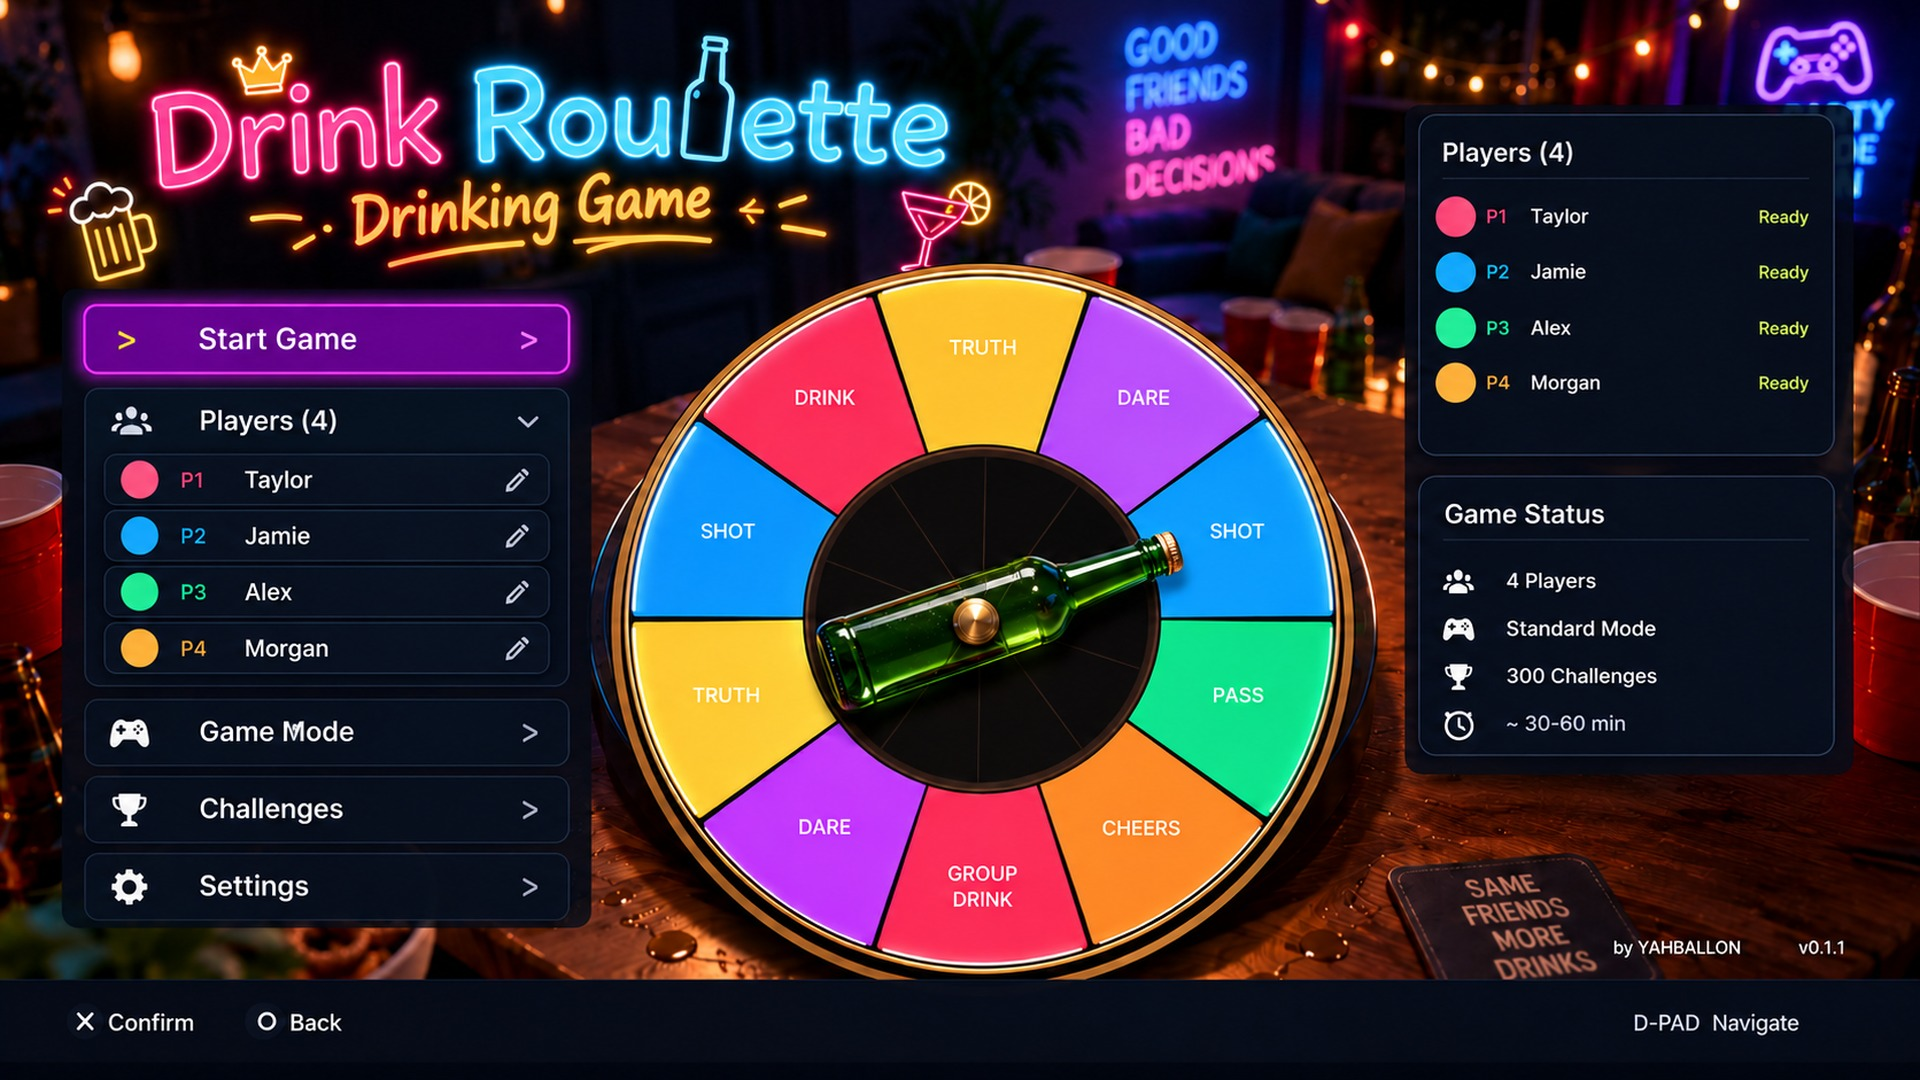
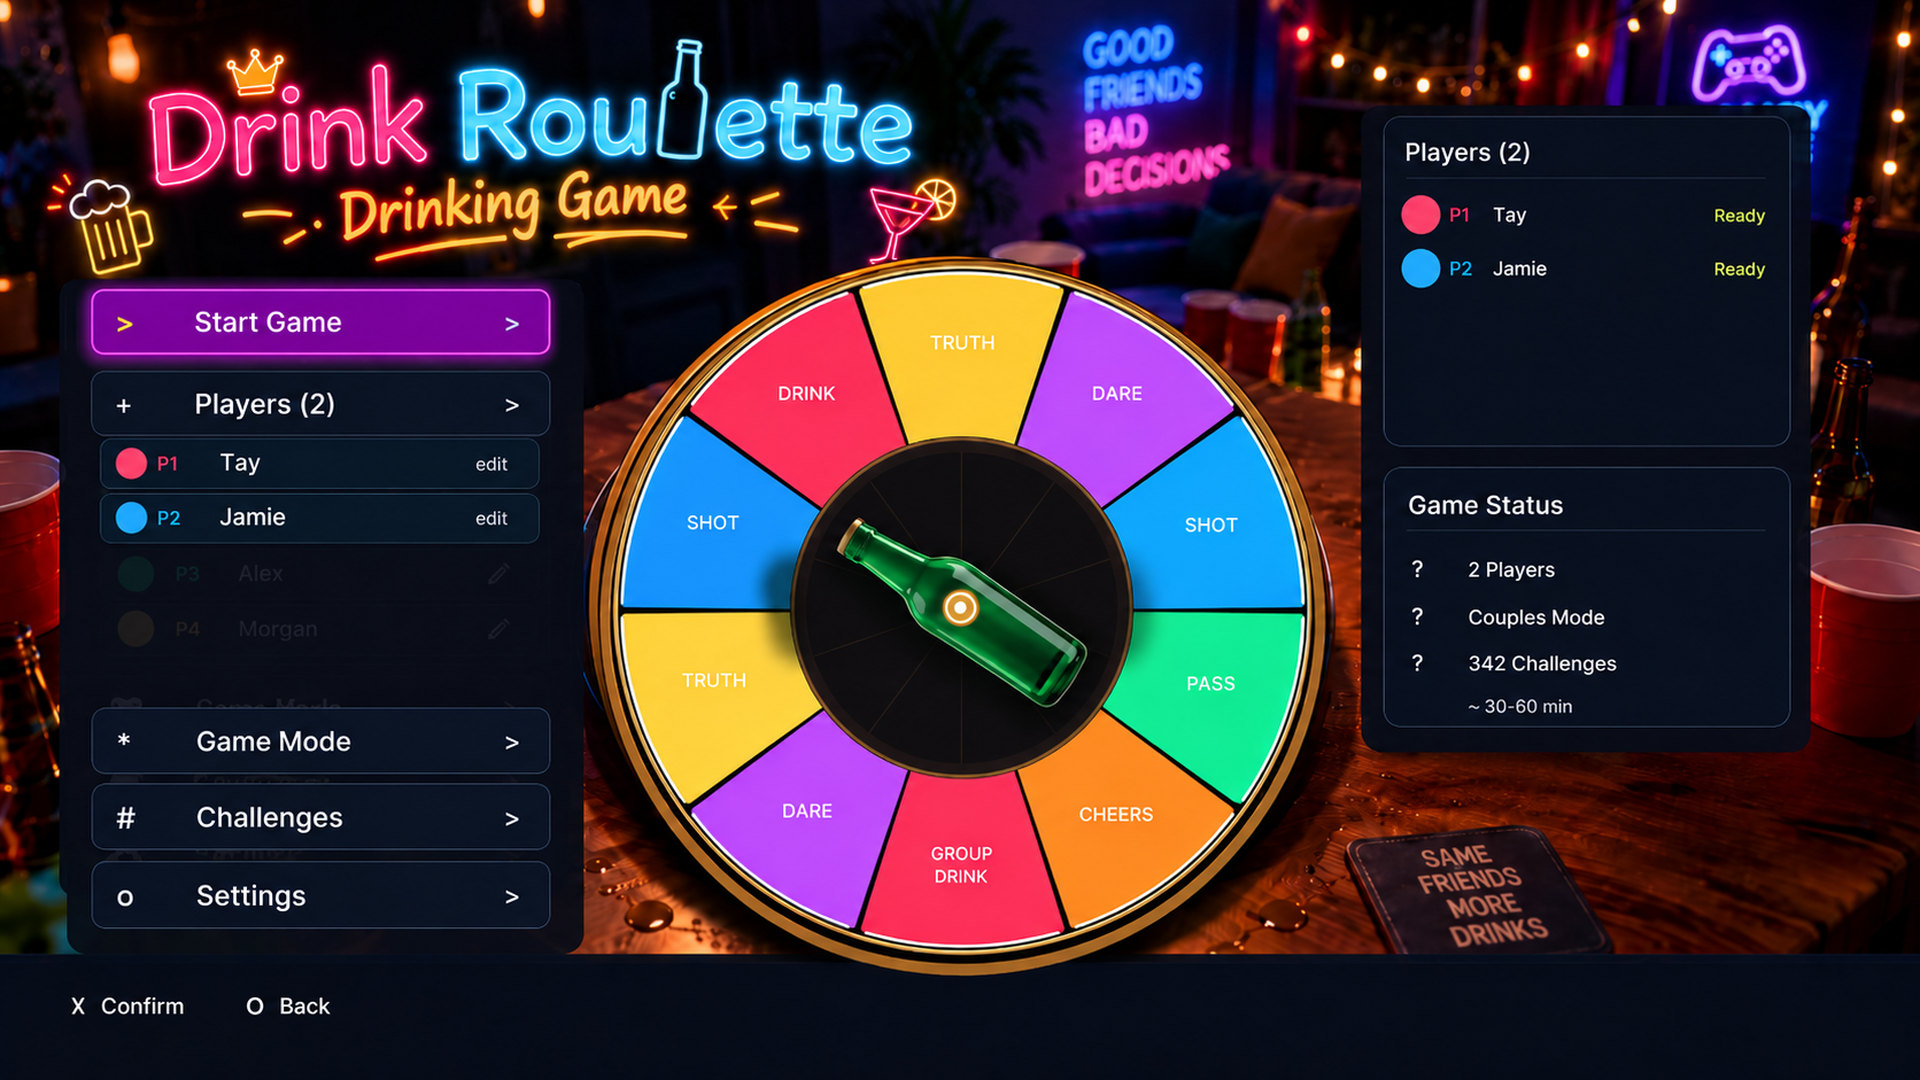
fix(drink-roulette): correct bottle UV rotation and remove duplicated credits v0.1.3

diff --git a/homebrew/drink-roulette/native/main.cpp b/homebrew/drink-roulette/native/main.cpp
@@ -1,5 +1,5 @@
 // SPDX-License-Identifier: GPL-3.0-or-later
-// Drink Roulette by YAHBALLON v0.1.2 — native PS5 / ps5-homebrew-ui.
+// Drink Roulette by YAHBALLON v0.1.3 — native PS5 / ps5-homebrew-ui.
 #include "game.hpp"
 #include "gfx/renderer.hpp"
 #include "platform/ps5/display_egl.hpp"
@@ -33,7 +33,7 @@ std::string read(const char* path,size_t maxBytes=12*1024*1024){
  if(fread(content.data(),1,size_t(n),f)!=size_t(n))content.clear();
  fclose(f);return content;
 }
-void log(const char* text){mkdir("/data/DrinkRoulette",0755);if(FILE* f=fopen("/data/DrinkRoulette/drink-roulette.log","ab")){fprintf(f,"[DrinkRoulette v0.1.2] %s\n",text);fclose(f);}}
+void log(const char* text){mkdir("/data/DrinkRoulette",0755);if(FILE* f=fopen("/data/DrinkRoulette/drink-roulette.log","ab")){fprintf(f,"[DrinkRoulette v0.1.3] %s\n",text);fclose(f);}}
 // Persist the setup atomically. Only controller-keyboard characters are saved.
 void save(const Game& g){
  mkdir("/data/DrinkRoulette",0755);
@@ -184,10 +184,14 @@ void wheel(DrawList& d,const Font& f,unsigned a,const Game& g,const Texture& bot
  d.circle(cx,cy,162,rgb(0x100d12));
  // Radial woodgrain/depth in the fixed inner disc.
  for(int i=0;i<10;i++){float a=i*tau/10;d.line(cx+std::sin(a)*22,cy-std::cos(a)*22,cx+std::sin(a)*160,cy-std::cos(a)*160,2,rgb(0xb17d47,.12f));}
- // Real 1024-pixel translucent glass bottle texture. Rotate the image as the wheel spins.
- if(bottle.id){
-  d.shadow({cx-218,cy-64,436,128},45,18,rgb(0x00110a,.58f));
-  d.rotated_image(bottle.id,{cx-260,cy-78,520,156},g.angle-pi*.5f,white);
+ // Rotate the full sprite on a transparent square atlas.
+ // ps5-homebrew-ui rotated_image() rotates UVs, not its quad: the previous
+ // 520x156 rectangle clipped the bottle at 90/270 degree turns.
+ constexpr float bottleAtlasHalf=164.f;
+ if(bottle.id && bottle.width==bottle.height){
+  d.rotated_image(bottle.id,
+     {cx-bottleAtlasHalf,cy-bottleAtlasHalf,2.f*bottleAtlasHalf,2.f*bottleAtlasHalf},
+     pi*.5f-g.angle,white);
  }else{
   // Deterministic visual fallback if the sprite asset cannot load.
   float dx=std::sin(g.angle),dy=-std::cos(g.angle);
@@ -532,12 +536,10 @@ int main(){
   DrawList d;
   if(bg.id){d.image(bg.id,{0,0,1920,1080},kFullUv,white);if(!bg.reference)title(d,font,atlas);}else{party_backdrop(d);title(d,font,atlas);}
   // Dynamic UI panels replace the baked-in reference panels when photo is present.
-  if(bg.id){d.rounded_rect({71,286,532,695},14,rgb(0x080b16,.93f));d.rounded_rect({1415,107,447,670},15,rgb(0x090b17,.91f));}
+  if(bg.id){d.rounded_rect({71,286,532,695},14,rgb(0x080b16,.995f));d.rounded_rect({1415,107,447,670},15,rgb(0x090b17,.995f));}
   wheel(d,font,atlas,g,bottle);
   cards(d,font,atlas,g);
   overlay(d,font,atlas,g);
-  tx(d,font,atlas,"by YAHBALLON",1747,963,17,light,Align::right);
-  tx(d,font,atlas,"v0.1.2",1851,963,18,light,Align::right);
   footer(d,font,atlas,g);
   renderer.begin();renderer.draw(d);renderer.present(0,display.width(),display.height());display.swap();
   hui::sys::hide_splash_screen();hui::sys::sleep_us(16000);

diff --git a/homebrew/drink-roulette/assets/generate_bottle.py b/homebrew/drink-roulette/assets/generate_bottle.py
@@ -53,5 +53,9 @@ d.line((881,109,890,183),fill=(255,255,211,154),width=5)
 for x,y,r in [(223,108,5),(246,187,4),(325,163,3),(545,104,5),(576,193,4),(720,137,3)]:
  d.ellipse((x-r,y-r,x+r,y+r),fill=(229,255,222,125))
  d.ellipse((x-r/2,y-r/2,x+r/4,y+r/4),fill=(255,255,255,151))
-image.save(out)
-print('Built',out)
+# Store in a square transparent atlas: the renderer rotates UVs in-place.
+atlas=Image.new('RGBA',(1024,1024),(0,0,0,0))
+resized=image.resize((780,234),Image.Resampling.LANCZOS)
+atlas.alpha_composite(resized,(160,395))
+atlas.save(out)
+print('Built square bottle atlas',out)

diff --git a/homebrew/drink-roulette/RELEASE_NOTES.md b/homebrew/drink-roulette/RELEASE_NOTES.md
@@ -1,11 +1,8 @@
-# Drink Roulette v0.1.2
+# Drink Roulette v0.1.3
 
-- Native PS5 first-launch setup: 2–8 players, editable names using an integrated DualSense keyboard, game mode, intensity, and ready lobby.
-- Expanded offline challenge library from 48 to **433 unique questions, dares and group prompts**; includes non-alcoholic/pass options and prompt de-duplication.
-- Five functional modes: Standard, Wild, Couples, Quickfire, Truth & Dare; three functional challenge tiers.
-- Rebuilt lobby with expanded left-side player list, updated neon reference artwork, cleaned lower-right corner, and live status panel with true eligible challenge count.
-- Transparent green glass bottle sprite replaces primitive single-color polygon and rotates across the PS5 OpenGL roulette wheel.
-- Persist selected options, names, and onboarding status. Existing v0.1.1 user settings trigger a fresh setup on first v0.1.2 launch.
-- Automated CI builds installable `PPSA99841.zip`, checks included texture assets and runs game-engine regression tests.
-
-Physical PS5 rendering and gamepad behavior still require a user hardware test; no such test is claimed here.
+- Fix clipping of the spinning green bottle with centered square RGBA atlas and corrected rotation direction.
+- Remove developer/version text from the background artwork and native menu overlay.
+- Suppress ghosts from pre-rendered sidebar labels with more opaque native panels.
+- Add CI regression checks for bottle square shape/alpha, background dimensions, and render path.
+- Keep 433 prompts, setup wizard, modes and saved preferences.
+- Hardware appearance to be verified with a real PS5 test.

diff --git a/homebrew/drink-roulette/README.md b/homebrew/drink-roulette/README.md
@@ -1,4 +1,4 @@
-# Drink Roulette by YAHBALLON — v0.1.2
+# Drink Roulette by YAHBALLON — v0.1.3
 
 Native PS5 homebrew party game with 1920×1080 OpenGL presentation, neon drink-roulette lobby, an animated green glass bottle sprite, pass-and-play controller controls, and a fully offline set of **433 unique challenges**. The provided lobby design is used as the background; foreground roulette, challenge cards, and menus are rendered live.
 
@@ -46,3 +46,8 @@ This homebrew is for supported jailbroken PS5 consoles. Host and GitHub CI build
 - `tests/game_test.cpp`: onboarding, categories, spin and mode regression tests.
 
 GPL-3.0-or-later (consistent with the native UI framework). No Sony or PlayStation marks are embedded.
+
+
+## v0.1.3: Roulette display fix
+
+The native renderer rotates texture UVs within the destination quad. The old non-square quad clipped the bottle as it spun. The bottle now uses a square transparent atlas with the center pivot aligned to the wheel. The supplied 1080p background contains no baked credits or version text; matching native overlay credits were also removed.
